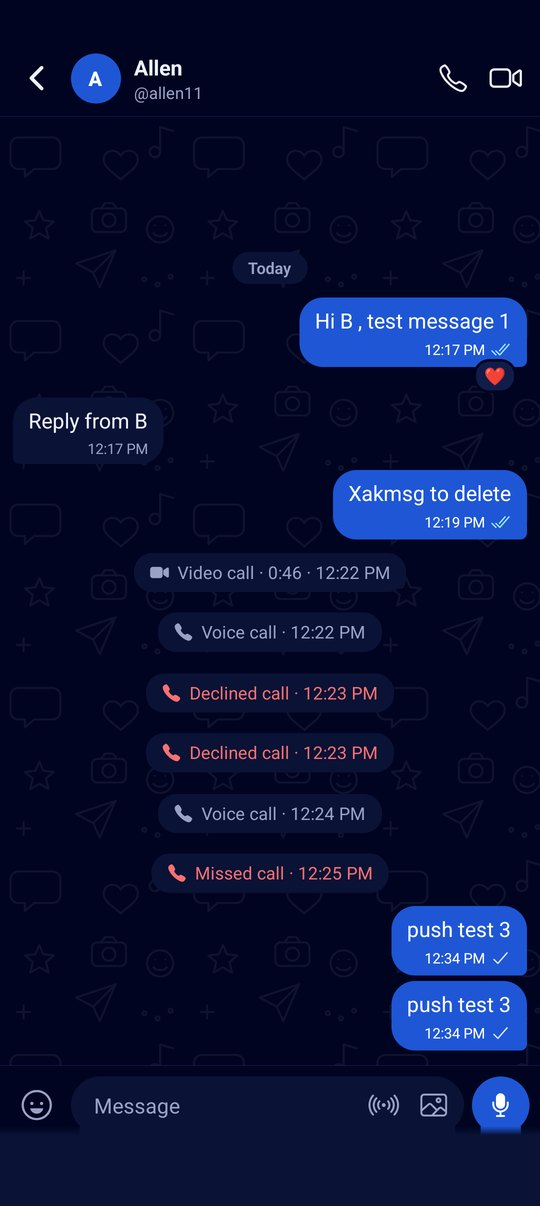
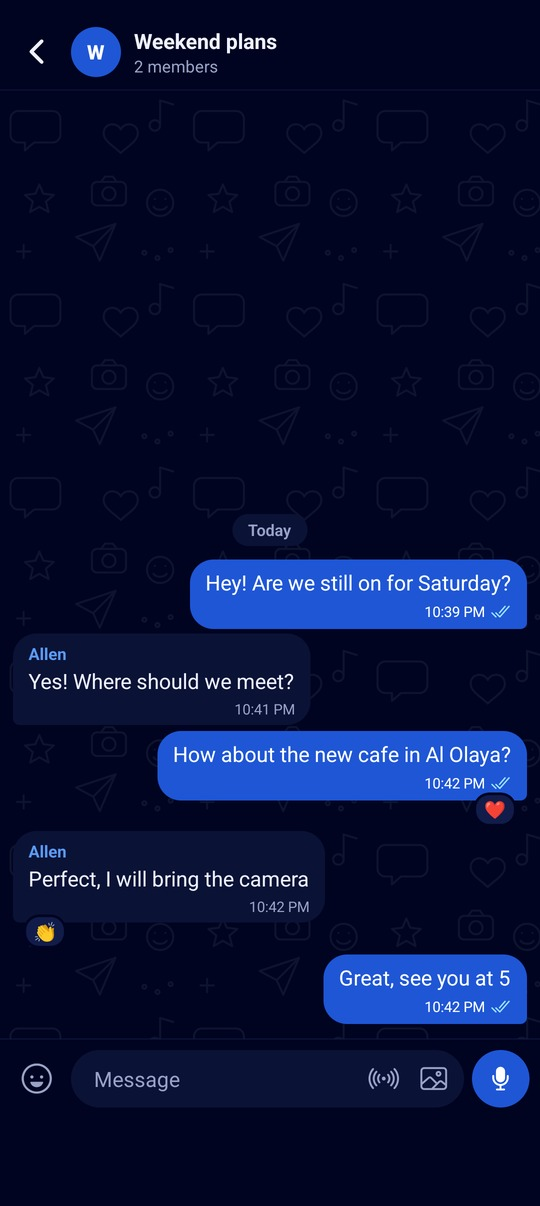
Onboarding v1b: clean made-up group chat in slide 4, typing indicator repositioned

diff --git a/mobile/src/components/OnboardingArt.tsx b/mobile/src/components/OnboardingArt.tsx
@@ -303,5 +303,5 @@ const styles = StyleSheet.create({
   rec: { position: 'absolute', alignSelf: 'center', top: IN_H * 0.07 - 14, flexDirection: 'row', alignItems: 'center', gap: 7, backgroundColor: '#F43F5E', borderRadius: 999, paddingHorizontal: 14, paddingVertical: 6 },
   recBlip: { width: 8, height: 8, borderRadius: 4, backgroundColor: '#fff' },
   recTxt: { color: '#fff', fontSize: 16, fontWeight: '800' },
-  typing: { position: 'absolute', start: 14, bottom: IN_H * 0.11 + LIFT, flexDirection: 'row', gap: 5, borderRadius: 999, paddingHorizontal: 14, paddingVertical: 12 },
+  typing: { position: 'absolute', start: 14, bottom: IN_H * 0.05 + LIFT, flexDirection: 'row', gap: 5, borderRadius: 999, paddingHorizontal: 14, paddingVertical: 12 },
 });
